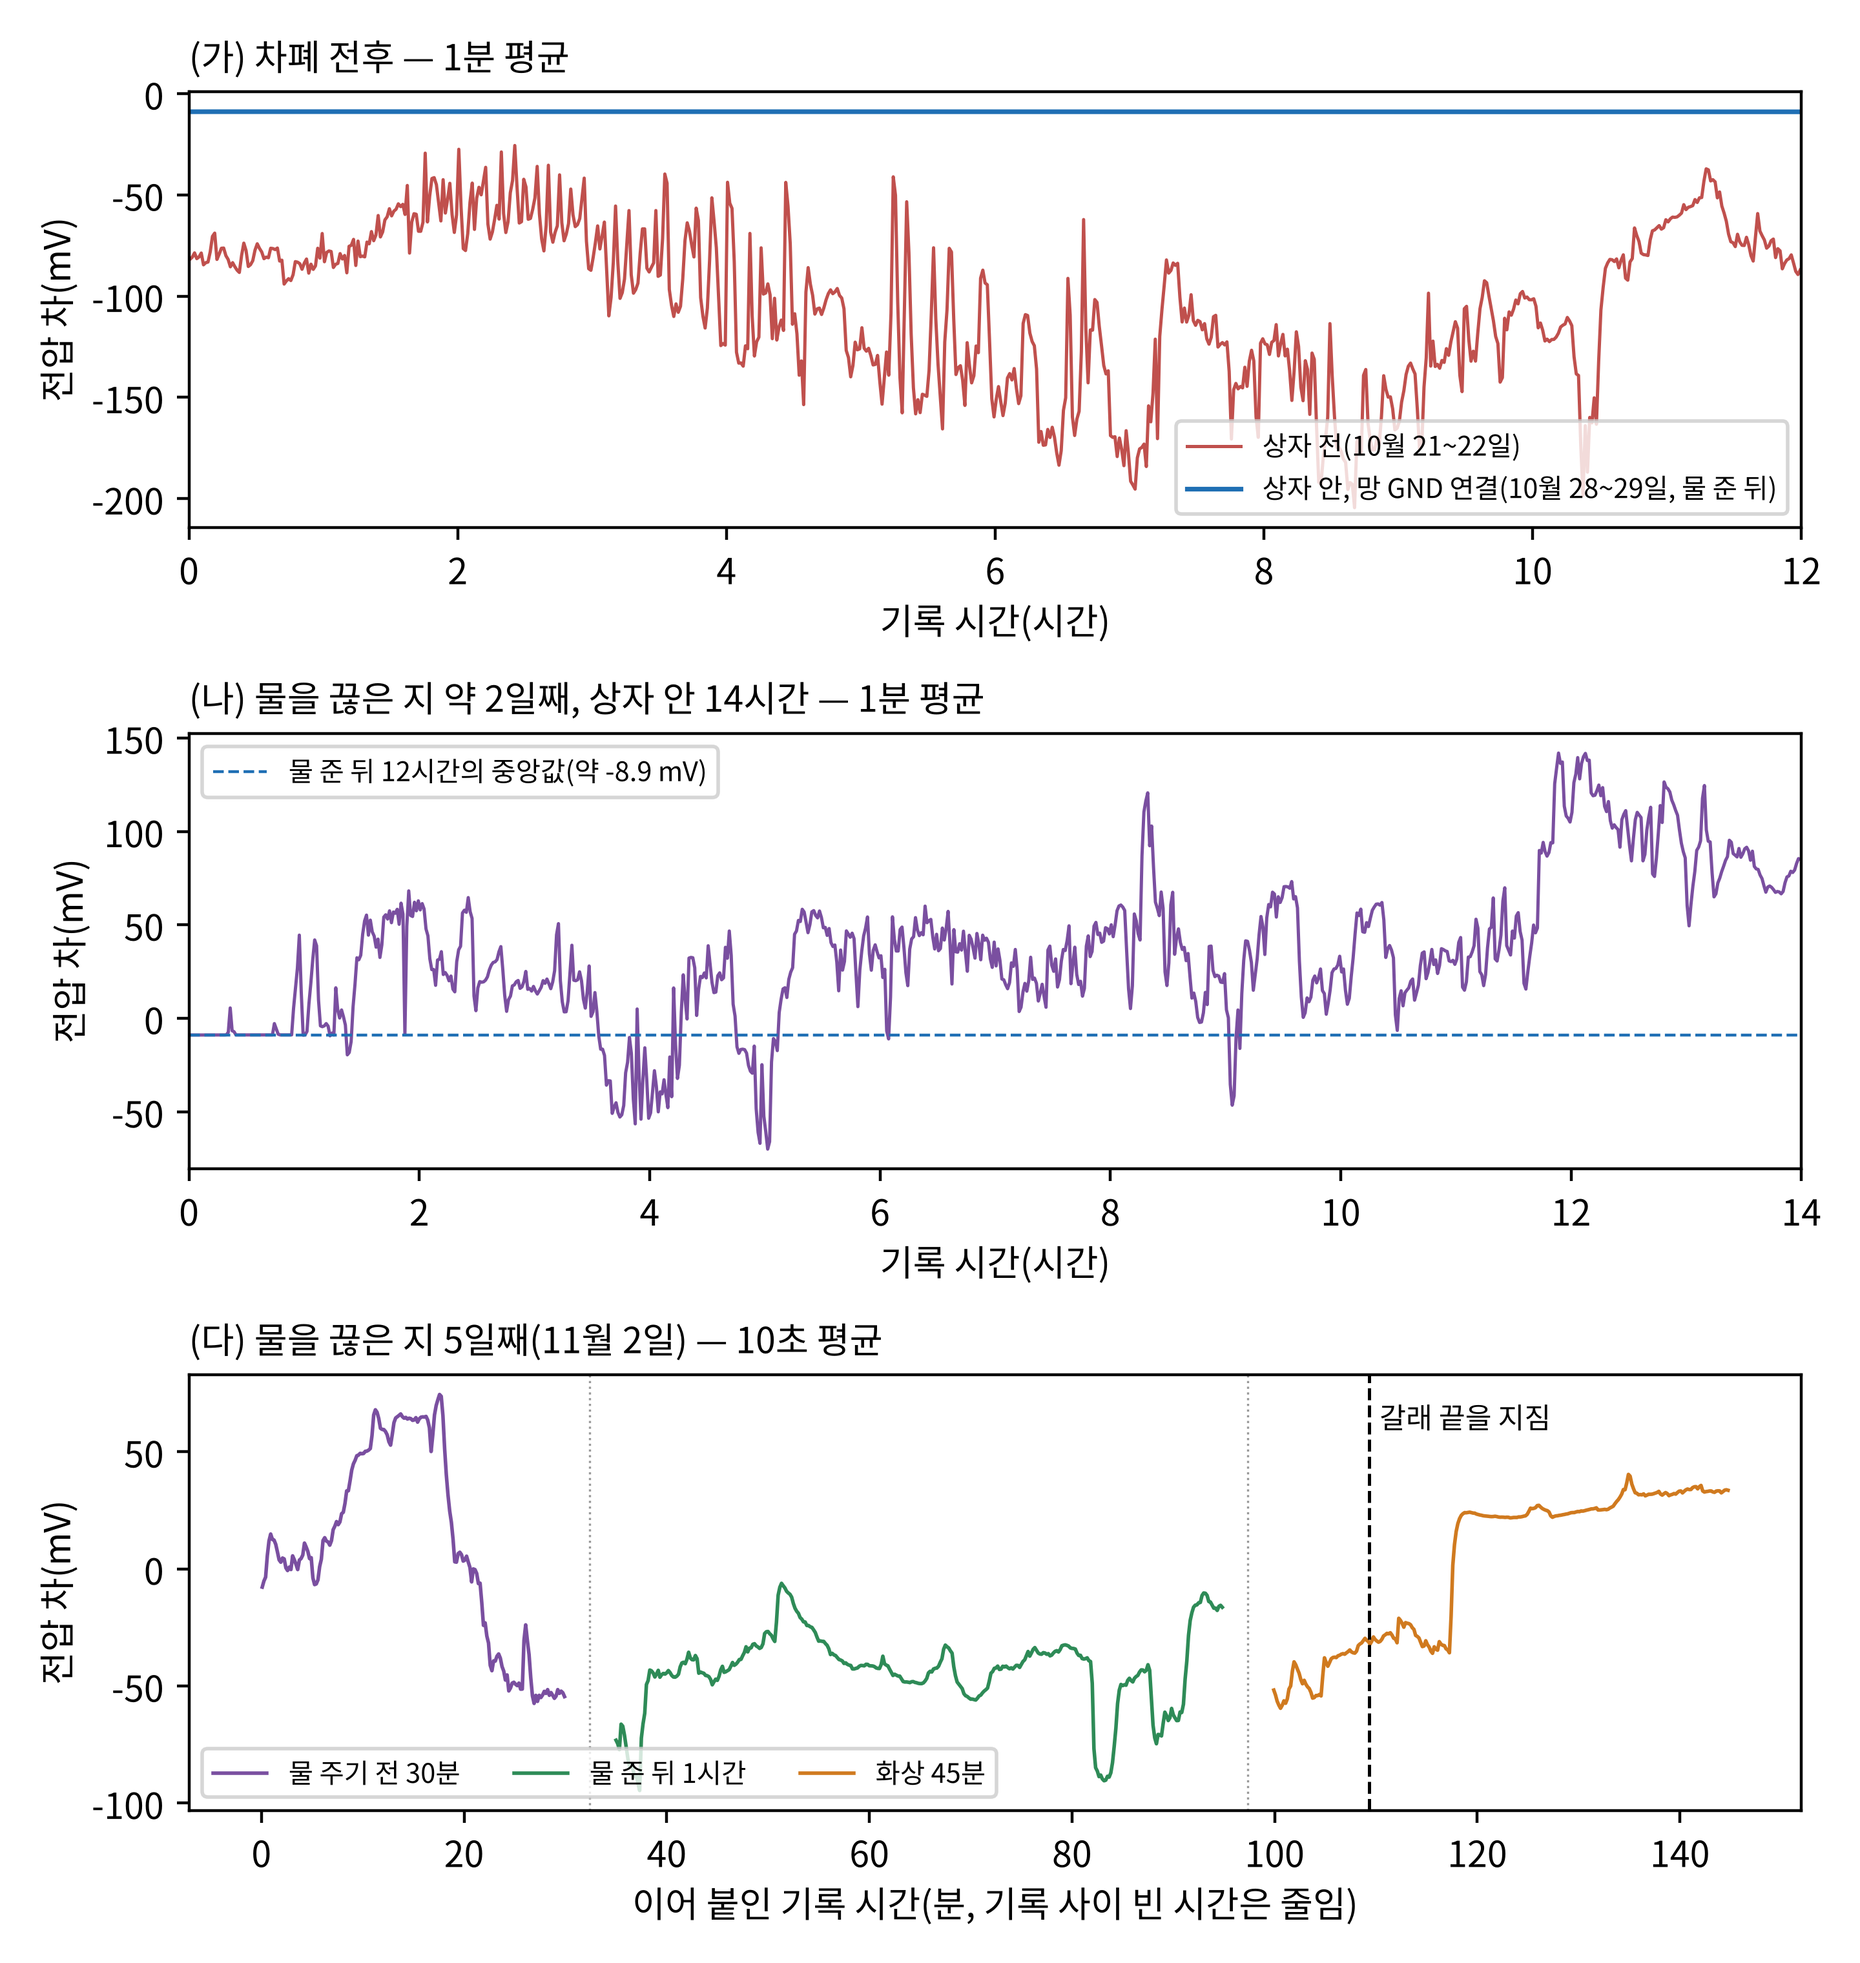
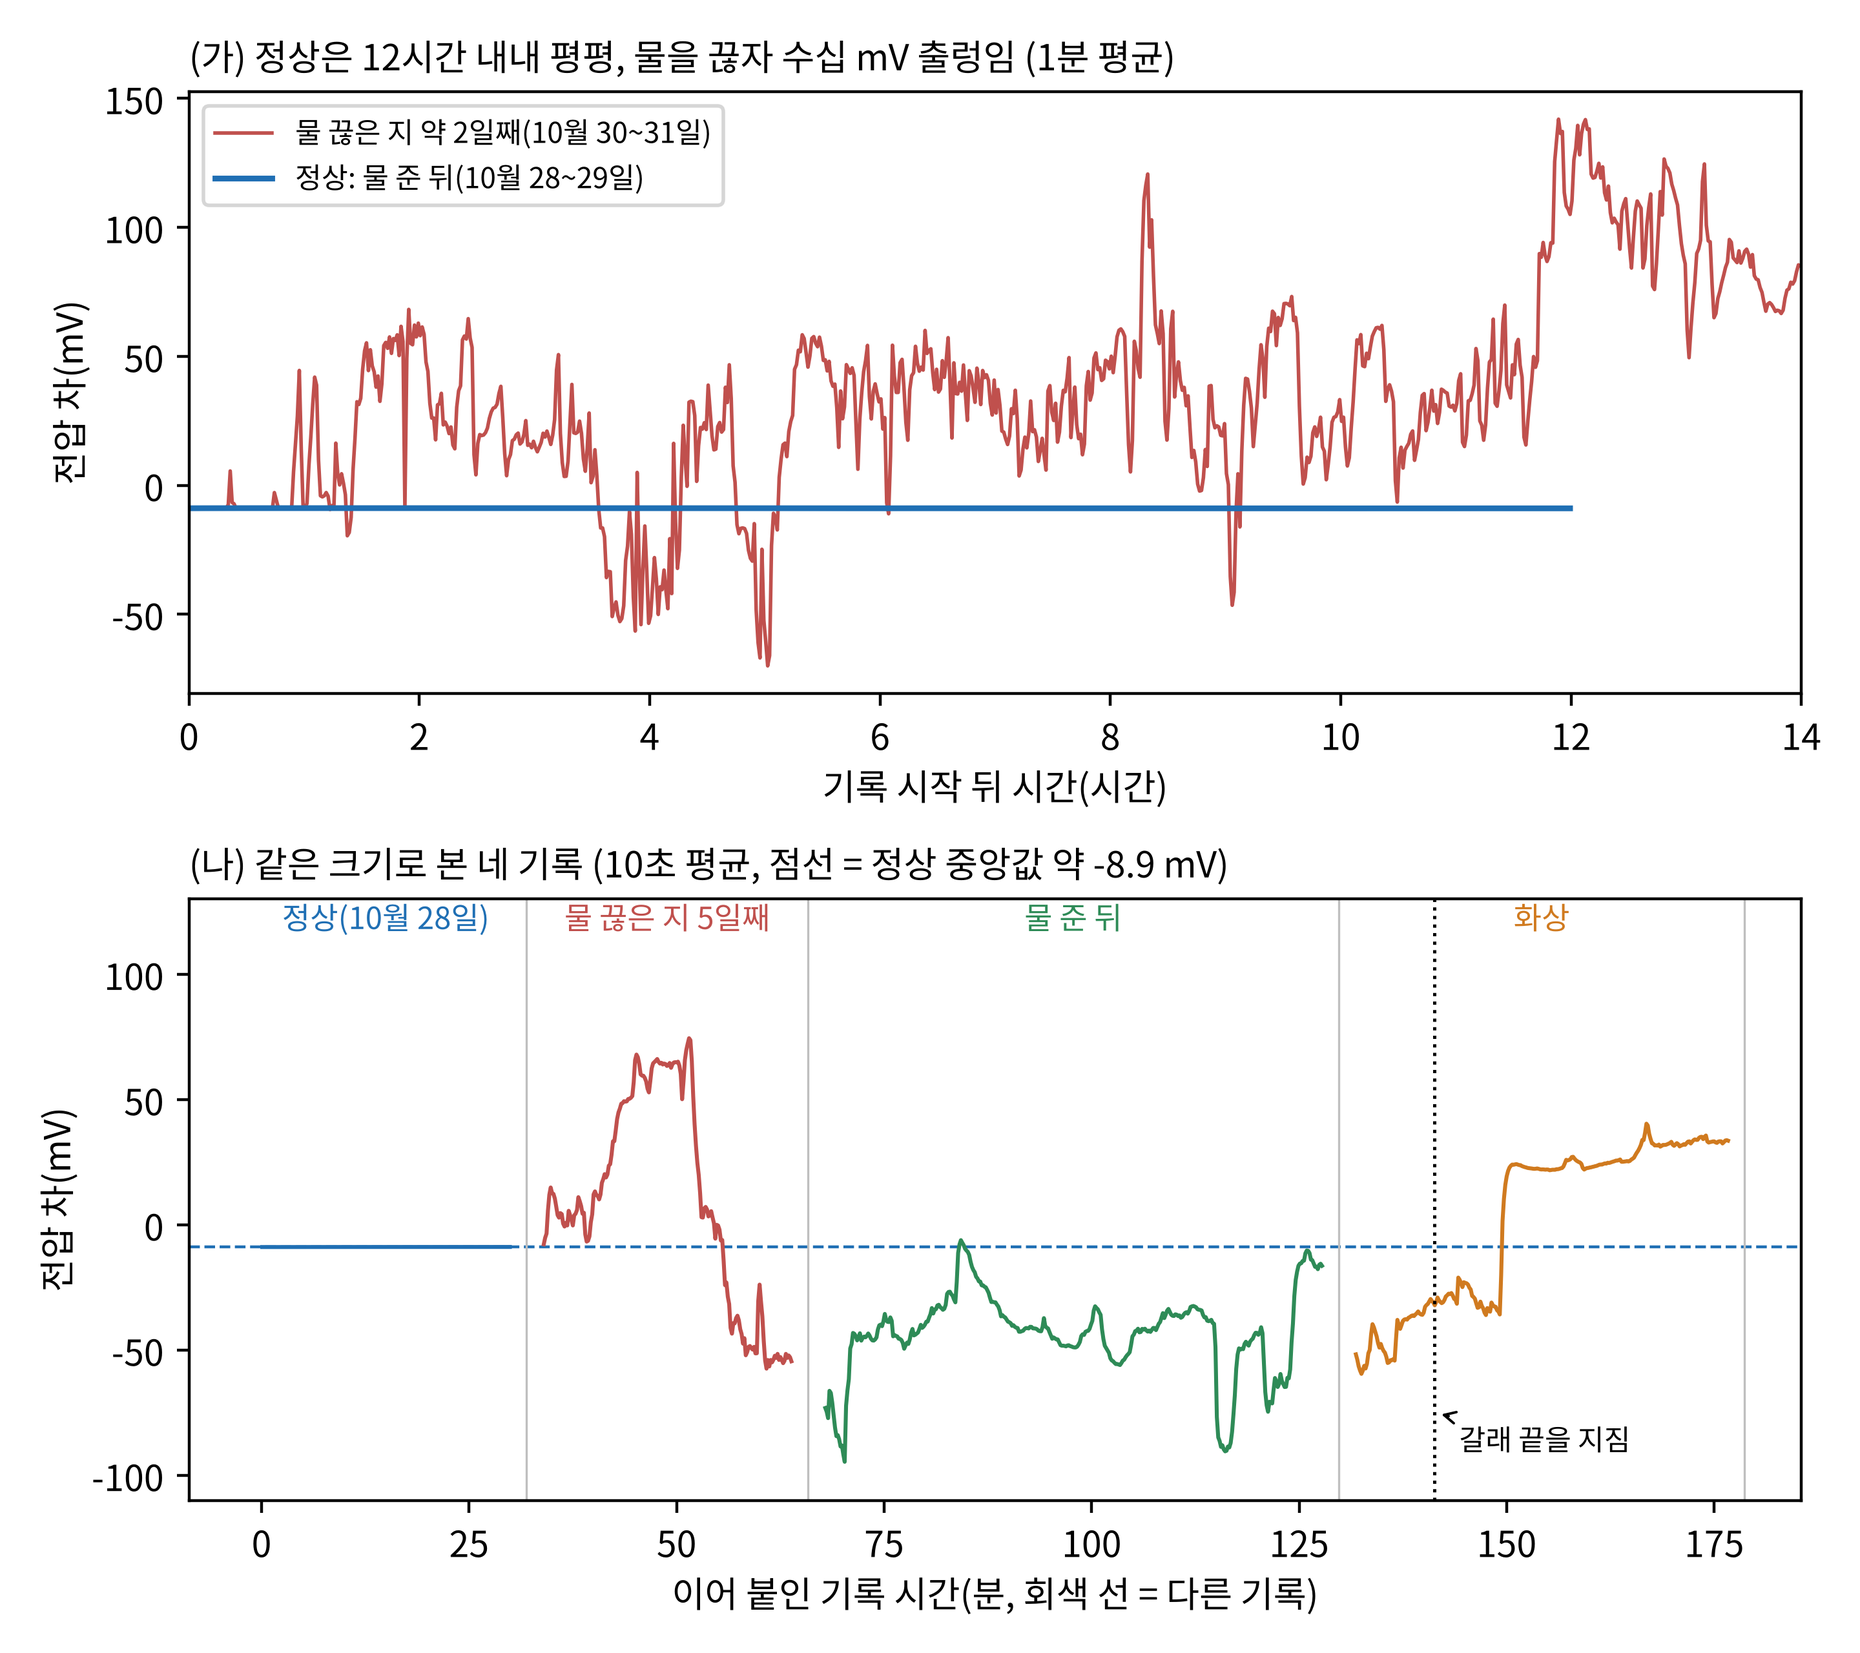
그림4를 정상 기준과 같은 축 비교 두 칸으로 다시 그림
Claude-Session: https://claude.ai/code/session_01C4EjqsuDmybtyqqZrYxbgy

diff --git a/report/stim/fig_main.py b/report/stim/fig_main.py
@@ -1,7 +1,8 @@
-"""본 실험 그림(그림4): 패러데이 상자 안 기준선 — 차폐·수분부족·화상.
-(가) 상자 전 20시간 중 처음 12시간 vs 상자 안(망 GND) 물 준 뒤 12시간 — 1분 평균
-(나) 물 끊은 지 약 2일째 14시간(10-30~31) — 1분 평균
-(다) 5일째(11-02): 물 주기 전 30분 | 물 준 뒤 1시간 | 화상 45분(지진 시각 표시) — 10초 평균
+"""본 실험 그림(그림4): 같은 식물, 패러데이 상자 안(망 GND) — 정상과 수분부족을 같은 축에서 비교.
+(가) 물 준 뒤 12시간(정상, 10-28~29) 과 물 끊은 지 약 2일째 14시간(10-30~31) 을 겹쳐 그림 — 1분 평균
+(나) 같은 10초 평균·같은 세로축으로 이어 붙임: 정상(10-28 처음 30분) | 물 끊은 지 5일째 30분 | 물 준 뒤 1시간 | 화상 45분
+두 칸 모두 정상 기록의 중앙값(약 -8.9 mV)을 점선으로 그어 기준으로 삼는다.
+(차폐 전후 비교는 본문 숫자로만 쓴다 — 2026-11-02 사용자 "그래프가 다 따로 있어서 뭘 말하는지 모르겠다")
 쓰는 법(저장소 루트): python3 report/stim/fig_main.py report/FIG_MAIN.png
 그림 글자에 '−'(U+2212)를 쓰지 않는다(글꼴에 없음)."""
 import sys, os
@@ -19,9 +20,13 @@ for f in fm.findSystemFonts():
 plt.rcParams["font.family"] = "Noto Sans CJK JP"
 plt.rcParams["axes.unicode_minus"] = False
 
+C_OK, C_DRY, C_WET, C_BURN = "#1f6fb4", "#c0504d", "#2e8b57", "#d07a1f"
 
-def avg(name, sec):
+
+def avg(name, sec, tmax=None):
     d = pd.read_csv(os.path.join(FAR, name), usecols=["timestamp_sec", "voltage"])
+    if tmax is not None:
+        d = d[d.timestamp_sec < tmax]
     t = d.timestamp_sec.to_numpy(); v = d.voltage.to_numpy() * 1000
     k = np.floor(t / sec).astype(int)
     n = np.bincount(k); s = np.bincount(k, weights=v)
@@ -29,39 +34,39 @@ def avg(name, sec):
     return (np.arange(len(n))[ok] + 0.5) * sec, s[ok] / n[ok]
 
 
-fig, ax = plt.subplots(3, 1, figsize=(7.2, 7.6))
+OK = "상자후GND_정상_20261028.csv.gz"
+fig, ax = plt.subplots(2, 1, figsize=(7.2, 6.4))
+
 # (가)
-t1, v1 = avg("상자전_정상_20261021.csv.gz", 60); m = t1 <= 12 * 3600
-t2, v2 = avg("상자후GND_정상_20261028.csv.gz", 60)
-ax[0].plot(t1[m] / 3600, v1[m], color="#c0504d", lw=0.9, label="상자 전(10월 21~22일)")
-ax[0].plot(t2 / 3600, v2, color="#1f6fb4", lw=1.3, label="상자 안, 망 GND 연결(10월 28~29일, 물 준 뒤)")
-ax[0].set_xlim(0, 12); ax[0].set_ylabel("전압 차(mV)"); ax[0].set_xlabel("기록 시간(시간)")
-ax[0].set_title("(가) 차폐 전후 — 1분 평균", loc="left", fontsize=10)
-ax[0].legend(loc="lower right", fontsize=7.5)
+t1, v1 = avg(OK, 60)
+t2, v2 = avg("상자후GND_수분부족_20261030.csv.gz", 60)
+base = float(np.median(v1))
+ax[0].plot(t2 / 3600, v2, color=C_DRY, lw=1.0, label="물 끊은 지 약 2일째(10월 30~31일)")
+ax[0].plot(t1 / 3600, v1, color=C_OK, lw=1.6, label="정상: 물 준 뒤(10월 28~29일)")
+ax[0].set_xlim(0, 14); ax[0].set_ylabel("전압 차(mV)"); ax[0].set_xlabel("기록 시작 뒤 시간(시간)")
+ax[0].set_title("(가) 정상은 12시간 내내 평평, 물을 끊자 수십 mV 출렁임 (1분 평균)", loc="left", fontsize=10)
+ax[0].legend(loc="upper left", fontsize=8)
+
 # (나)
-t3, v3 = avg("상자후GND_수분부족_20261030.csv.gz", 60)
-ax[1].plot(t3 / 3600, v3, color="#7a4fa0", lw=0.9)
-ax[1].axhline(np.median(v2), color="#1f6fb4", lw=0.8, ls="--", label="물 준 뒤 12시간의 중앙값(약 -8.9 mV)")
-ax[1].set_xlim(0, 14); ax[1].set_ylabel("전압 차(mV)"); ax[1].set_xlabel("기록 시간(시간)")
-ax[1].set_title("(나) 물을 끊은 지 약 2일째, 상자 안 14시간 — 1분 평균", loc="left", fontsize=10)
-ax[1].legend(loc="upper left", fontsize=7.5)
-# (다)
-segs = [("상자후GND_수분부족_물주기전30분_20261102.csv.gz", "물 주기 전 30분", "#7a4fa0"),
-        ("상자후GND_물준뒤1시간_20261102.csv.gz", "물 준 뒤 1시간", "#2e8b57"),
-        ("상자후GND_화상_20261102.csv.gz", "화상 45분", "#d07a1f")]
-x0 = 0.0
-for i, (f, lab, c) in enumerate(segs):
-    t, v = avg(f, 10)
-    ax[2].plot((x0 + t) / 60, v, color=c, lw=1.0, label=lab)
-    if f.startswith("상자후GND_화상"):
-        ax[2].axvline((x0 + 571.5) / 60, color="k", lw=0.9, ls="--")
-        ax[2].text((x0 + 571.5) / 60 + 1, ax[2].get_ylim()[1] if False else 60, "갈래 끝을 지짐", fontsize=8)
-    x0 += t[-1] + 5 * 60   # 기록 사이 빈 시간은 5분으로 줄여 그림
-    if i < 2:
-        ax[2].axvline(x0 / 60 - 2.5, color="0.6", lw=0.6, ls=":")
-ax[2].set_ylabel("전압 차(mV)"); ax[2].set_xlabel("이어 붙인 기록 시간(분, 기록 사이 빈 시간은 줄임)")
-ax[2].set_title("(다) 물을 끊은 지 5일째(11월 2일) — 10초 평균", loc="left", fontsize=10)
-ax[2].legend(loc="lower left", fontsize=7.5, ncol=3)
+segs = [(OK, "정상(10월 28일)", C_OK, 1800),
+        ("상자후GND_수분부족_물주기전30분_20261102.csv.gz", "물 끊은 지 5일째", C_DRY, None),
+        ("상자후GND_물준뒤1시간_20261102.csv.gz", "물 준 뒤", C_WET, None),
+        ("상자후GND_화상_20261102.csv.gz", "화상", C_BURN, None)]
+ax[1].axhline(base, color=C_OK, lw=0.8, ls="--")
+x0 = 0.0; GAP = 4 * 60
+for f, lab, c, tmax in segs:
+    t, v = avg(f, 10, tmax)
+    ax[1].plot((x0 + t) / 60, v, color=c, lw=1.1)
+    ax[1].text((x0 + t[-1] / 2) / 60, 118, lab, color=c, ha="center", fontsize=8.5)
+    if lab == "화상":
+        ax[1].axvline((x0 + 571.5) / 60, color="k", lw=0.9, ls=":")
+        ax[1].annotate("갈래 끝을 지짐", xy=((x0 + 571.5) / 60, -75), xytext=((x0 + 571.5) / 60 + 3, -90),
+                       fontsize=8, arrowprops=dict(arrowstyle="->", lw=0.7))
+    x0 += t[-1] + GAP
+    ax[1].axvline((x0 - GAP / 2) / 60, color="0.75", lw=0.6)
+ax[1].set_ylim(-110, 130)
+ax[1].set_ylabel("전압 차(mV)"); ax[1].set_xlabel("이어 붙인 기록 시간(분, 회색 선 = 다른 기록)")
+ax[1].set_title("(나) 같은 크기로 본 네 기록 (10초 평균, 점선 = 정상 중앙값 약 -8.9 mV)", loc="left", fontsize=10)
 fig.tight_layout()
 fig.savefig(sys.argv[1], dpi=400)
-print("ok")
+print("ok", base)

diff --git a/CLAUDE.md b/CLAUDE.md
@@ -1204,6 +1204,7 @@ python3 src/sensor_control.py --state 수분부족 --frontend dc --ref --rate 5 
 > 문단마다 줄 배치 vertpos 를 **0 부터** 썼는데, 한글은 vertpos 가 0 으로 돌아가면 새 쪽으로 읽는다. 모두의한글(빈 쪽 문제)만 보고 넣은 줄 배치가 한글을 깨뜨렸다.
 > **`report/hwpx_noseg.py` 로 줄 배치를 전부 지우자 한글에서 17쪽**(사용자 확인). 이제 보고서를 고칠 때 **맨 마지막 단계는 hwpx_noseg** 다(fillseg 를 써도 그 뒤에 noseg).
 > 모두의한글에서는 다시 빈 쪽이 생길 수 있다 — 제출은 한글 기준.
+> 2026-11-02 사용자 "그래프가 다 따로 있어 뭘 말하는지 모르겠다, 새로 넣은 건 정상 기록이 없다" — 그림4 를 두 칸으로 다시 그림(`fig_main.py`): (가) 정상 12시간과 물 끊은 지 2일째 14시간을 겹침, (나) 정상 처음 30분·5일째·물 준 뒤·화상을 같은 10초 평균·같은 세로축으로 이어 붙이고 정상 중앙값 점선. 차폐 전후 칸은 뺌(본문 숫자로만). 본문 그림4(가)(나)(다) 참조와 캡션도 맞춤. 넣은 판은 아직 사용자 확인 전이라 제출본은 그대로다.
 > 같은 날 사용자: 전부 지운 판은 **그림이 하나도 안 보였다**(그림 문단은 줄 배치가 있어야 높이가 잡힘). `hwpx_noseg.py` 를 **그림이 든 문단은 남기도록** 고침(글 문단 351개 지움, 그림 문단 9개 남김). 한글 쪽수·그림 확인 대기.
 > 그 판(D)에서 그림이 일부 하얗게·엉뚱한 쪽에 나옴(사용자 캡처). 원래 그림 3개(image1·2·4)는 vertpos 가 실제 값이고, 나중에 넣은 6개는 `hwpx_picseg` 가 0 으로 써서 같은 문제로 본다. `report/hwpx_picpos.py`(estimate: 대략 흘려 쪽 안 높이 / one: 0 → 1) 로 두 판 E·F 를 만들어 사용자 확인 대기.
 > 사용자 "예전 파일을 봐라" — 원래 정리본(69627cd, 한글로 만든 판)은 **맨 바깥 문단 첫 줄 vertpos 가 0 인 문단이 1개뿐**(문서 맨 처음)인데, 우리 도구로 고친 판은 84개였다. 한글은 0 을 새 쪽으로 읽는다.
